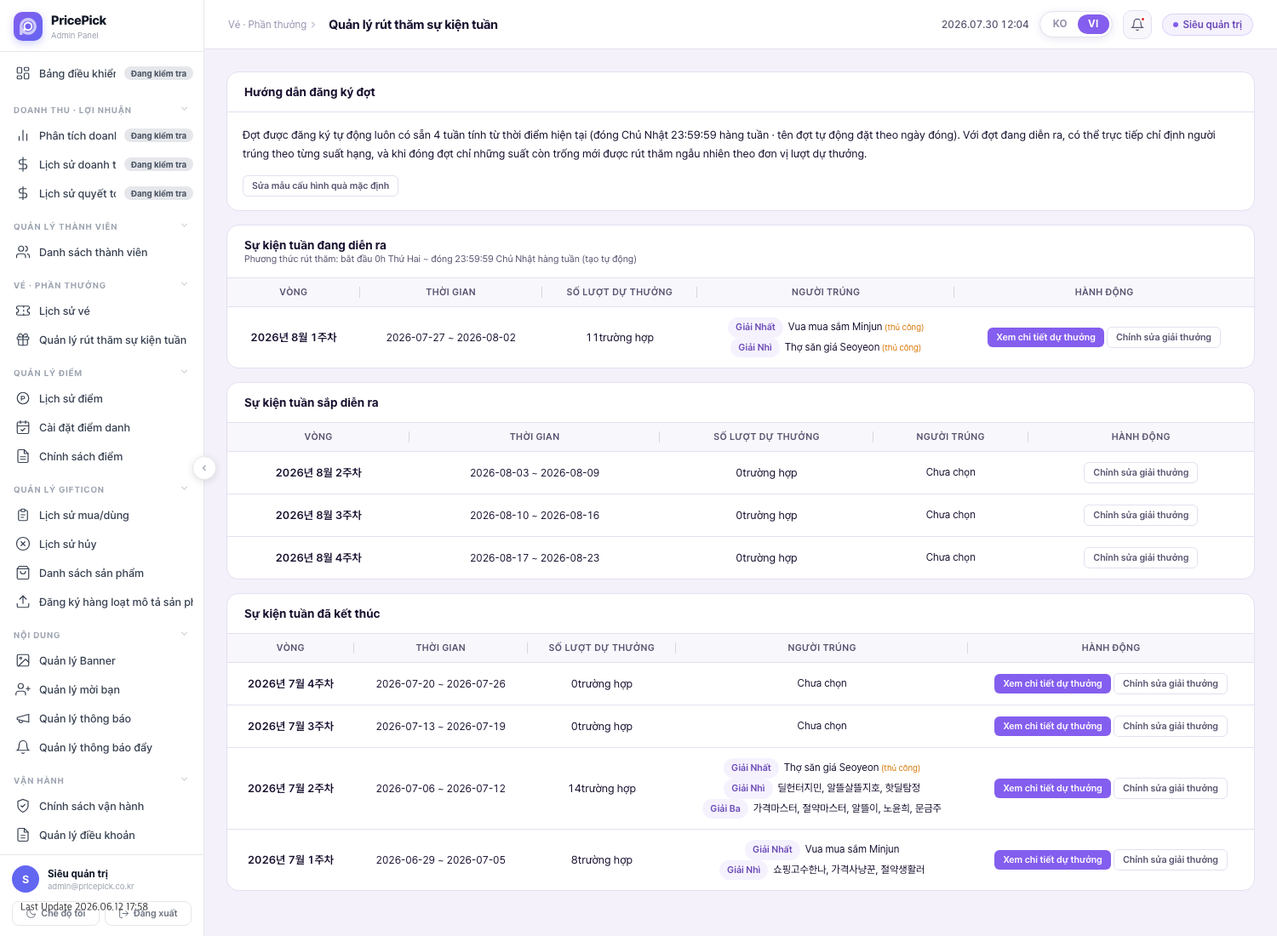
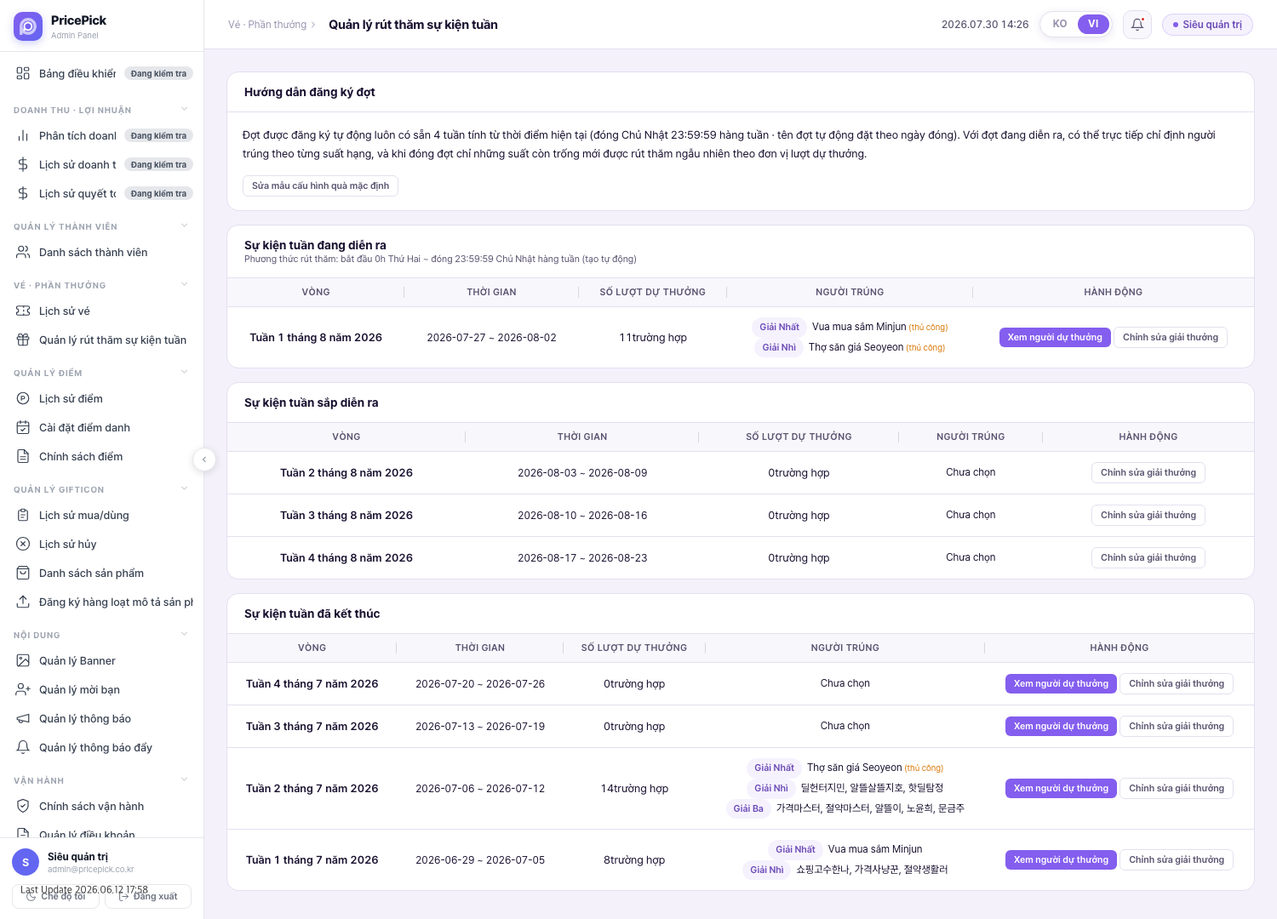
CMS 원본·설명서: 진행 중 회차 컬럼 폭 재배분 + "응모자 보기" 개칭 반영
- cms.html: 데모와 동일 이식. 진행 중 회차 전용 폭 36/24/40%(840px 모달 기준 290·193·322px,
  등수 칸 콘텐츠 306px → 잔여 16px)로 재배분하고, 종료 회차 폭은 정적 th width를 최초 1회 캐시해
  그대로 복원(그쪽 폭 조정은 병렬 세션 담당이라 값을 들고 있지 않음).
  정렬은 전역 td{text-align:center!important}에 맞서지 않고, 내용이 좌측부터 쌓이는 "당첨 등수"
  헤더만 좌측으로 내려 헤더·내용 기준을 일치시켰다.
  회차 리스트 버튼 "응모 상세 보기" → "응모자 보기", KO2VI "Xem người dự thưởng".
- 설명서: 본문·캡션의 버튼명 KO 7곳·VI 7곳 일괄 교체, 진행 중 캡처 캡션에 컬럼 폭 재배분 사실 추가.
  캡처 4종 재촬영 — 리스트 KO/VI(새 버튼명), 진행 중(새 폭·안내 펼침), 종료(2행 구조·지급 활성).

검증: 진행 중/종료 폭·정렬·10건 무스크롤 실화면 확인, 버튼 라벨 KO/VI 확인, 설명서 KO/VI 잔존 한글 0건.

diff --git a/cms-storyboard/weekly-draws.html b/cms-storyboard/weekly-draws.html
@@ -82,11 +82,11 @@ code{font-family:'SF Mono',Menlo,monospace;font-size:11.5px;background:var(--bg)
 <table>
   <tr><th style="width:170px"><span class="i18n"><span class="ko">구역</span><span class="vi">Khu vực</span></span></th><th><span class="i18n"><span class="ko">내용</span><span class="vi">Nội dung</span></span></th></tr>
   <tr><td><b><span class="i18n"><span class="ko">진행중인 주간 이벤트</span><span class="vi">Sự kiện tuần đang diễn ra</span></span></b></td><td><span class="i18n"><span class="ko">오늘이 속한 회차 1개. 항상 리스트 맨 위</span><span class="vi">1 đợt chứa ngày hôm nay. Luôn ở trên cùng danh sách</span></span></td></tr>
-  <tr><td><b><span class="i18n"><span class="ko">진행예정 주간 이벤트</span><span class="vi">Sự kiện tuần sắp diễn ra</span></span></b></td><td><span class="i18n"><span class="ko">아직 시작 전인 이후 회차들(보통 3개). 응모가 아직 0건이라 "응모 상세 보기" 버튼은 없고 "경품 수정"만 있다</span><span class="vi">Các đợt sau đó chưa bắt đầu (thường 3 đợt). Vì chưa có lượt dự thưởng nào nên không có nút "Xem chi tiết dự thưởng", chỉ có "Chỉnh sửa giải thưởng"</span></span></td></tr>
+  <tr><td><b><span class="i18n"><span class="ko">진행예정 주간 이벤트</span><span class="vi">Sự kiện tuần sắp diễn ra</span></span></b></td><td><span class="i18n"><span class="ko">아직 시작 전인 이후 회차들(보통 3개). 응모가 아직 0건이라 "응모자 보기" 버튼은 없고 "경품 수정"만 있다</span><span class="vi">Các đợt sau đó chưa bắt đầu (thường 3 đợt). Vì chưa có lượt dự thưởng nào nên không có nút "Xem người dự thưởng", chỉ có "Chỉnh sửa giải thưởng"</span></span></td></tr>
   <tr><td><b><span class="i18n"><span class="ko">종료된 주간 이벤트</span><span class="vi">Sự kiện tuần đã kết thúc</span></span></b></td><td><span class="i18n"><span class="ko">마감이 지난 회차. 최신 회차가 위로 오도록 정렬</span><span class="vi">Đợt đã qua hạn đóng. Sắp xếp đợt mới nhất lên trên</span></span></td></tr>
 </table>
 <p><span class="i18n"><span class="ko">각 회차 행의 "응모건 수"는 그 회차에 이벤트 티켓이 쓰인 횟수다(뒤에서 설명하듯 티켓 1장 = 응모 1건이므로, 같은 사람이 여러 장 쓰면 그만큼 건수도 늘어난다). "당첨자"는 당첨자가 확정된 회차에만 등수별로 뜨고, 아직이면 "미선정"으로 표시된다.</span><span class="vi">"Số lượt dự thưởng" ở mỗi dòng đợt là số lần vé sự kiện được dùng trong đợt đó (vé 1 = dự thưởng 1 lượt như giải thích ở phần sau, nên 1 người dùng nhiều vé thì số lượt cũng tăng theo). "Người trúng" chỉ hiện theo hạng ở đợt đã chốt người trúng, còn chưa thì hiện "Chưa chọn".</span></span></p>
-<div class="shot"><img src="img/weekly-draws-01-list-overview.png" alt="회차 리스트 전체 화면 — 3구역"><div class="cap"><span class="i18n"><span class="ko">실측 캡처 — 회차 자동 등록 안내 + 3구역 리스트(2026-07-30, cms.html 기준). 진행예정 구역은 "경품 수정"만 있고 "응모 상세 보기"가 없다. 진행중 회차 "당첨자" 칸의 <b>"(수동)"</b>은 운영자가 직접 지정한 당첨자다</span><span class="vi">Ảnh chụp thực tế — hướng dẫn đăng ký đợt tự động + danh sách 3 khu vực (2026-07-30, theo cms.html). Khu vực sắp diễn ra chỉ có "Chỉnh sửa giải thưởng", không có "Xem chi tiết dự thưởng". Ký hiệu <b>"(thủ công)"</b> ở cột "Người trúng" của đợt đang diễn ra là người trúng do Vận hành viên trực tiếp chỉ định</span></span></div></div>
+<div class="shot"><img src="img/weekly-draws-01-list-overview.png" alt="회차 리스트 전체 화면 — 3구역"><div class="cap"><span class="i18n"><span class="ko">실측 캡처 — 회차 자동 등록 안내 + 3구역 리스트(2026-07-30, cms.html 기준). 진행예정 구역은 "경품 수정"만 있고 "응모자 보기"가 없다. 진행중 회차 "당첨자" 칸의 <b>"(수동)"</b>은 운영자가 직접 지정한 당첨자다</span><span class="vi">Ảnh chụp thực tế — hướng dẫn đăng ký đợt tự động + danh sách 3 khu vực (2026-07-30, theo cms.html). Khu vực sắp diễn ra chỉ có "Chỉnh sửa giải thưởng", không có "Xem người dự thưởng". Ký hiệu <b>"(thủ công)"</b> ở cột "Người trúng" của đợt đang diễn ra là người trúng do Vận hành viên trực tiếp chỉ định</span></span></div></div>
 
 <h2 class="sec"><span class="i18n"><span class="ko">4. 경품 구성</span><span class="vi">4. Cấu hình quà</span></span></h2>
 <p><span class="i18n"><span class="ko">회차별 "경품 수정" 버튼을 누르면 그 회차의 등수별 경품만 고칠 수 있다. 회차명·기간은 자동 등록 규칙으로 고정돼 있어 이 모달에서 바꿀 수 없다 — 등수, 경품명, 당첨자 수(=그 등수에 몇 명 뽑을지)만 입력한다. 새로 자동 생성되는 회차는 "기본 경품 구성 템플릿"을 그대로 복사해서 만들어지며, 이 템플릿은 화면 상단 "기본 경품 구성 템플릿 편집" 버튼에서 미리 정해둔다. 템플릿을 바꿔도 이미 만들어진 회차에는 영향이 없고, 그 이후 새로 생기는 회차부터 적용된다.</span><span class="vi">Bấm nút "Chỉnh sửa giải thưởng" ở từng đợt để chỉ sửa quà theo hạng của đợt đó. Tên đợt·thời gian đã cố định theo quy tắc đăng ký tự động nên không sửa được trong modal này — chỉ nhập hạng, tên quà, số người trúng (=chọn bao nhiêu người ở hạng đó). Đợt mới được tạo tự động sẽ sao chép nguyên "Mẫu cấu hình quà mặc định", mẫu này được đặt trước ở nút "Sửa mẫu cấu hình quà mặc định" phía trên màn hình. Đổi mẫu không ảnh hưởng đợt đã tạo, chỉ áp dụng cho đợt tạo sau đó.</span></span></p>
@@ -96,14 +96,14 @@ code{font-family:'SF Mono',Menlo,monospace;font-size:11.5px;background:var(--bg)
 </div>
 
 <h2 class="sec"><span class="i18n"><span class="ko">5. 응모자 리스트 · 당첨자 선정</span><span class="vi">5. Danh sách người dự thưởng · Chọn người trúng</span></span></h2>
-<p><span class="i18n"><span class="ko">회차 행의 "응모 상세 보기"를 누르면 그 회차에 응모한 사람들이 뜬다. 이 버튼은 <b>진행중·종료된 회차 행에만 있다</b> — 진행예정 회차는 아직 응모가 0건이라 볼 게 없어서 버튼 자체를 빼놨다. 표기는 닉네임과 카카오 아이디 두 줄뿐이다(내부 식별 아이디 같은 건 안 보여준다). 응모일시는 날짜와 시각까지 함께 나온다. 컬럼은 <b>닉네임(카카오ID) · 응모일시 · 당첨 등수</b> 3개다 — 당첨 등수 칸 하나에 등수 뱃지(진행 중 회차는 등수 지정 드롭다운)와 <b>그 등수에 걸린 경품명</b>, 지급 상태 뱃지, 메모칸이 한 줄로 들어간다. 경품명은 그 회차의 등수별 경품 구성에서 그대로 읽어오므로 <b>"경품 수정"에서 경품을 바꾸면 이 표기도 따라 바뀐다</b>. 리스트 위 툴바도 한 줄이다 — 검색창, 응모 건수, 상태 뱃지, 안내 (i) 버튼이 왼쪽에 붙고 취소·저장이 오른쪽에 붙는다. 긴 안내 문구는 (i)를 누르면 그 아래로 펼쳐진다(마우스만 올려도 전문이 뜬다).</span><span class="vi">Bấm "Xem chi tiết dự thưởng" ở dòng đợt để xem người đã dự thưởng đợt đó. Nút này <b>chỉ có ở dòng đợt đang diễn ra·đã kết thúc</b> — đợt sắp diễn ra chưa có lượt dự thưởng nào nên đã bỏ hẳn nút này. Chỉ hiển thị 2 dòng biệt danh và Kakao ID (không hiện ID định danh nội bộ). Thời điểm dự thưởng hiện cả ngày lẫn giờ. Bảng có 3 cột: <b>Biệt danh (Kakao ID) · Thời điểm dự thưởng · Hạng trúng thưởng</b> — riêng ô Hạng trúng thưởng chứa gọn trên một dòng: badge hạng (đợt đang diễn ra thì là dropdown chỉ định hạng), <b>tên quà gắn với hạng đó</b>, badge trạng thái gửi quà và ô ghi chú. Tên quà được đọc thẳng từ cấu hình quà theo hạng của đợt đó, nên <b>đổi quà ở "Chỉnh sửa giải thưởng" thì phần hiển thị này cũng đổi theo</b>. Thanh công cụ phía trên danh sách cũng gói trong một dòng — ô tìm kiếm, số lượt dự thưởng, badge trạng thái và nút hướng dẫn (i) nằm bên trái, Hủy·Lưu nằm bên phải. Nội dung hướng dẫn dài sẽ bung ra bên dưới khi bấm (i) (chỉ rê chuột cũng hiện đầy đủ).</span></span></p>
+<p><span class="i18n"><span class="ko">회차 행의 "응모자 보기"를 누르면 그 회차에 응모한 사람들이 뜬다. 이 버튼은 <b>진행중·종료된 회차 행에만 있다</b> — 진행예정 회차는 아직 응모가 0건이라 볼 게 없어서 버튼 자체를 빼놨다. 표기는 닉네임과 카카오 아이디 두 줄뿐이다(내부 식별 아이디 같은 건 안 보여준다). 응모일시는 날짜와 시각까지 함께 나온다. 컬럼은 <b>닉네임(카카오ID) · 응모일시 · 당첨 등수</b> 3개다 — 당첨 등수 칸 하나에 등수 뱃지(진행 중 회차는 등수 지정 드롭다운)와 <b>그 등수에 걸린 경품명</b>, 지급 상태 뱃지, 메모칸이 한 줄로 들어간다. 경품명은 그 회차의 등수별 경품 구성에서 그대로 읽어오므로 <b>"경품 수정"에서 경품을 바꾸면 이 표기도 따라 바뀐다</b>. 리스트 위 툴바도 한 줄이다 — 검색창, 응모 건수, 상태 뱃지, 안내 (i) 버튼이 왼쪽에 붙고 취소·저장이 오른쪽에 붙는다. 긴 안내 문구는 (i)를 누르면 그 아래로 펼쳐진다(마우스만 올려도 전문이 뜬다).</span><span class="vi">Bấm "Xem người dự thưởng" ở dòng đợt để xem người đã dự thưởng đợt đó. Nút này <b>chỉ có ở dòng đợt đang diễn ra·đã kết thúc</b> — đợt sắp diễn ra chưa có lượt dự thưởng nào nên đã bỏ hẳn nút này. Chỉ hiển thị 2 dòng biệt danh và Kakao ID (không hiện ID định danh nội bộ). Thời điểm dự thưởng hiện cả ngày lẫn giờ. Bảng có 3 cột: <b>Biệt danh (Kakao ID) · Thời điểm dự thưởng · Hạng trúng thưởng</b> — riêng ô Hạng trúng thưởng chứa gọn trên một dòng: badge hạng (đợt đang diễn ra thì là dropdown chỉ định hạng), <b>tên quà gắn với hạng đó</b>, badge trạng thái gửi quà và ô ghi chú. Tên quà được đọc thẳng từ cấu hình quà theo hạng của đợt đó, nên <b>đổi quà ở "Chỉnh sửa giải thưởng" thì phần hiển thị này cũng đổi theo</b>. Thanh công cụ phía trên danh sách cũng gói trong một dòng — ô tìm kiếm, số lượt dự thưởng, badge trạng thái và nút hướng dẫn (i) nằm bên trái, Hủy·Lưu nằm bên phải. Nội dung hướng dẫn dài sẽ bung ra bên dưới khi bấm (i) (chỉ rê chuột cũng hiện đầy đủ).</span></span></p>
 <p><span class="i18n"><span class="ko">이벤트 티켓 <b>1장을 쓴 게 응모 1건이고, 리스트도 1행</b>이다. 그래서 한 사람이 티켓을 3장 썼으면 그 사람 이름으로 3행이 나란히 뜬다 — 한 사람이 여러 번 응모할 수 있다는 뜻이다. 당첨자 추첨도 이 응모 "행" 단위로 진행되기 때문에, 같은 사람이라도 <b>쓴 티켓이 많을수록(=응모 행이 많을수록) 당첨 확률이 그만큼 비례해서 올라간다</b>.</span><span class="vi">Dùng <b>1 vé sự kiện = 1 lượt dự thưởng = 1 dòng</b> trong danh sách. Vậy nếu 1 người dùng 3 vé thì tên người đó xuất hiện liền 3 dòng — nghĩa là 1 người có thể dự thưởng nhiều lần. Rút thăm người trúng cũng tiến hành theo đơn vị "dòng" dự thưởng này, nên dù cùng 1 người, <b>dùng càng nhiều vé (=càng nhiều dòng dự thưởng) thì xác suất trúng càng tăng theo tỷ lệ</b>.</span></span></p>
 <div class="callout"><div class="tt"><span class="i18n"><span class="ko">당첨자 선정 규칙</span><span class="vi">Quy tắc chọn người trúng</span></span></div><span class="i18n"><span class="ko">진행 중인 회차에서는 운영자가 등수 슬롯별로 당첨자를 직접 지정할 수 있고(마감 전까지 변경·해제 가능), 마감(일요일 23:59:59) 시점에 비어 있는 슬롯만 응모 건 단위 무작위 추첨으로 채워진다 · 1인 1회 당첨 · 1등부터 등수별 정원만큼 순서대로 채움 · 이미 수동 지정된 사람은 자동 추첨 대상에서 제외. 요약 문구는 응모자 리스트 모달 상단에도 회차 상태에 맞게 붙어 있다.</span><span class="vi">Với đợt đang diễn ra, Vận hành viên có thể trực tiếp chỉ định người trúng theo từng suất hạng (thay đổi·huỷ được cho đến khi đóng đợt), và tại thời điểm đóng đợt (23:59:59 Chủ Nhật) chỉ những suất còn trống mới được rút thăm ngẫu nhiên theo đơn vị lượt dự thưởng · Mỗi người chỉ trúng thưởng 1 lần · Lấp đầy theo thứ tự từ hạng 1 cho đến khi đủ số lượng từng hạng · Người đã được chỉ định thủ công bị loại khỏi diện rút thăm tự động. Nội dung tóm tắt này cũng hiện ở đầu modal danh sách người dự thưởng theo đúng trạng thái của đợt.</span></span></div>
 <p><span class="i18n"><span class="ko"><b>진행 중인 회차</b>를 열면 각 응모 행의 "당첨 등수" 칸이 <b>드롭다운</b>으로 나온다. 그 회차 경품 구성에 있는 등수만 선택지로 뜨고("미선택" 포함), 등수를 고르면 그 행이 그 등수 슬롯의 당첨자가 된다. 두 가지는 화면에서 바로 막는다 — <b>등수별 정원을 넘겨 지정할 수 없고</b>("해당 등수의 슬롯이 이미 모두 찼습니다."), <b>같은 사람을 두 번 지정할 수 없다</b>("이미 다른 응모 건으로 당첨 처리된 응모자입니다"). 지정은 <b>상단 "저장"을 눌러야 확정</b>되며, 저장 전에는 상태 뱃지가 "저장 전 (임시 지정)"으로 뜬다. 저장 후에도 마감 전이면 언제든 다른 행으로 바꾸거나 "미선택"으로 되돌려 해제할 수 있다.</span><span class="vi">Khi mở <b>đợt đang diễn ra</b>, cột "Hạng trúng thưởng" của mỗi dòng dự thưởng hiện dưới dạng <b>danh sách chọn (dropdown)</b>. Chỉ các hạng có trong cấu hình quà của đợt đó xuất hiện làm lựa chọn (kèm "Chưa chọn"), chọn một hạng thì dòng đó thành người trúng của suất hạng ấy. Hai điều bị chặn ngay trên màn hình — <b>không chỉ định vượt số lượng của từng hạng</b> ("Các suất của hạng này đã đầy.") và <b>không chỉ định cùng một người hai lần</b> ("Người này đã được chọn trúng thưởng ở một lượt dự thưởng khác"). Chỉ định <b>chỉ được chốt khi bấm "Lưu"</b> phía trên; trước khi lưu, badge trạng thái hiện "Trước khi lưu (chỉ định tạm)". Sau khi lưu, nếu vẫn chưa đóng đợt thì lúc nào cũng có thể đổi sang dòng khác hoặc đưa về "Chưa chọn" để huỷ chỉ định.</span></span></p>
 <p><span class="i18n"><span class="ko">마감 시각이 되면 시스템이 <b>비어 있는 슬롯만</b> 채운다. 수동 지정된 사람을 뺀 나머지 응모 행을 전부 무작위로 섞은 뒤, 등수별로 남은 자리만큼 1등부터 순서대로 채우고, <b>같은 사람이 두 번 당첨되는 일은 막는다</b>(이미 당첨된 사람의 다른 응모 행은 건너뜀). 이렇게 확정된 뒤에는 <b>운영자가 당첨자를 바꿀 수 없다</b> — 종료된 회차의 "당첨 등수" 칸은 드롭다운이 아니라 결과 뱃지로만 보인다. 데모 환경에는 서버 크론이 없어서, 실제로는 CMS 화면을 여는 시점에 "마감은 지났는데 아직 추첨 안 된 회차"가 있는지 확인해 그 자리에서 대신 처리한다(운영자 눈에는 차이가 없다).</span><span class="vi">Khi đến giờ đóng đợt, hệ thống chỉ lấp <b>những suất còn trống</b>. Hệ thống xáo trộn ngẫu nhiên toàn bộ dòng dự thưởng còn lại sau khi trừ người đã được chỉ định thủ công, rồi lấp đúng số chỗ còn thiếu của từng hạng theo thứ tự từ hạng 1, đồng thời <b>chặn việc 1 người trúng hai lần</b> (bỏ qua các dòng dự thưởng khác của người đã trúng). Sau khi đã chốt như vậy thì <b>Vận hành viên không thể đổi người trúng</b> — cột "Hạng trúng thưởng" của đợt đã kết thúc chỉ hiện badge kết quả, không phải dropdown. Vì môi trường demo không có cron server, trên thực tế hệ thống kiểm tra vào lúc mở màn CMS xem có đợt nào "đã đóng nhưng chưa rút thăm" không rồi xử lý thay ngay lúc đó (Vận hành viên nhìn thấy không khác gì nhau).</span></span></p>
 <p><span class="i18n"><span class="ko">당첨으로 뽑힌 응모 행에는 <b>"당첨 · N등" 뱃지</b>가 붙고, 이런 행들은 등수 순서로 리스트 맨 위에 모인다. 회차 리스트의 "당첨자" 칸에서는 운영자가 직접 지정한 당첨자 뒤에 <b>"(수동)" 표시</b>가 붙어 자동 추첨분과 구분된다.</span><span class="vi">Dòng dự thưởng được chọn trúng sẽ có <b>badge "Trúng thưởng · Hạng N"</b>, và các dòng này được gom lên đầu danh sách theo thứ tự hạng. Ở cột "Người trúng" của danh sách đợt, người trúng do Vận hành viên trực tiếp chỉ định sẽ có thêm <b>ký hiệu "(thủ công)"</b> để phân biệt với phần rút thăm tự động.</span></span></p>
 <p><span class="i18n"><span class="ko">응모자가 많은 회차를 대비해 리스트 위에 <b>닉네임 검색창</b>이 있고, 리스트는 <b>10건씩 페이지로 나뉜다</b>. 검색은 닉네임과 카카오 아이디를 둘 다 부분 일치로 잡는다(대소문자 구분 없음) — "지민"만 쳐도 "딜헌터지민"이 걸린다. 검색창 오른쪽에는 <b>전체 응모 건수</b>가 항상 떠 있고, 검색 중에는 "검색 결과 N / 전체 응모 건수 M" 형태로 둘 다 보여준다(총계는 티켓 1장 = 1행 기준 그대로다). 정렬 규칙은 검색·페이지와 무관하게 그대로다 — <b>당첨자를 등수 순으로 먼저 세우고 그 뒤에 나머지</b>를 붙인 순서를 정해놓고 그 순서 그대로 10건씩 끊기 때문에, 1페이지 맨 위는 항상 1등이다. 당첨 뱃지·지급 상태 뱃지·메모칸도 검색 결과 안에서 똑같이 눌리고 입력된다. 검색어를 바꾸면 1페이지로 돌아가고, 모달을 닫았다 다시 열면 검색어·페이지가 초기화된다. 10건 이하면 페이지 버튼은 아예 안 나온다.</span><span class="vi">Để chuẩn bị cho các đợt có nhiều người dự thưởng, phía trên danh sách có <b>ô tìm kiếm biệt danh</b>, và danh sách được <b>chia trang 10 dòng mỗi trang</b>. Tìm kiếm khớp một phần cả biệt danh lẫn Kakao ID (không phân biệt hoa thường) — chỉ gõ "지민" cũng ra "딜헌터지민". Bên phải ô tìm kiếm luôn hiện <b>tổng số lượt dự thưởng</b>, khi đang tìm kiếm thì hiện cả hai theo dạng "Kết quả tìm kiếm N / Tổng số lượt dự thưởng M" (tổng số vẫn tính theo chuẩn 1 vé = 1 dòng như cũ). Quy tắc sắp xếp không đổi dù có tìm kiếm hay chia trang — <b>xếp người trúng lên trước theo thứ tự hạng rồi mới nối phần còn lại</b>, sau đó mới cắt 10 dòng mỗi trang theo đúng thứ tự đó, nên đầu trang 1 luôn là hạng 1. Badge trúng thưởng·badge trạng thái gửi quà·ô ghi chú trong kết quả tìm kiếm cũng bấm và nhập được y hệt. Đổi từ khóa thì quay về trang 1, đóng modal rồi mở lại thì từ khóa·trang được đặt lại. Nếu từ 10 dòng trở xuống thì nút chuyển trang không hiện.</span></span></p>
-<div class="shot"><img src="img/weekly-draws-02-entrants-modal.png" alt="응모자 리스트 — 미선정 상태, 다중 응모"><div class="cap"><span class="i18n"><span class="ko">실측 캡처 — <b>진행 중 회차</b>의 응모자 리스트. "당첨 등수"가 드롭다운이고, 1등·2등 슬롯이 수동 지정·저장된 상태(뱃지 "수동 지정 저장됨"). <b>지급 상태 뱃지·메모칸은 아예 없다</b>(지급은 마감 후) — 그 이유는 툴바 ⓘ 버튼을 누르면 펼쳐지는 안내 둘째 줄에 있다</span><span class="vi">Ảnh chụp thực tế — danh sách người dự thưởng của <b>đợt đang diễn ra</b>. Cột "Hạng trúng thưởng" là dropdown, và suất hạng 1·hạng 2 đang ở trạng thái đã chỉ định thủ công·đã lưu (badge "Đã lưu chỉ định thủ công"). <b>Không có badge trạng thái gửi quà·ô ghi chú</b> (gửi quà là sau khi đóng đợt) — lý do nằm ở dòng thứ hai của phần hướng dẫn mở ra khi bấm nút ⓘ trên thanh công cụ</span></span></div></div>
+<div class="shot"><img src="img/weekly-draws-02-entrants-modal.png" alt="응모자 리스트 — 미선정 상태, 다중 응모"><div class="cap"><span class="i18n"><span class="ko">실측 캡처 — <b>진행 중 회차</b>의 응모자 리스트. "당첨 등수"가 드롭다운이고, 1등·2등 슬롯이 수동 지정·저장된 상태(뱃지 "수동 지정 저장됨"). <b>지급 상태 뱃지·메모칸은 아예 없다</b>(지급은 마감 후) — 그 이유는 툴바 ⓘ 버튼을 누르면 펼쳐지는 안내 둘째 줄에 있다. 지급·메모가 빠진 만큼 <b>컬럼 폭도 진행 중 전용으로 다시 나눠</b> 드롭다운·경품명 오른쪽에 빈 공간이 남지 않게 했다</span><span class="vi">Ảnh chụp thực tế — danh sách người dự thưởng của <b>đợt đang diễn ra</b>. Cột "Hạng trúng thưởng" là dropdown, và suất hạng 1·hạng 2 đang ở trạng thái đã chỉ định thủ công·đã lưu (badge "Đã lưu chỉ định thủ công"). <b>Không có badge trạng thái gửi quà·ô ghi chú</b> (gửi quà là sau khi đóng đợt) — lý do nằm ở dòng thứ hai của phần hướng dẫn mở ra khi bấm nút ⓘ trên thanh công cụ. Vì bỏ phần gửi quà·ghi chú nên <b>độ rộng cột cũng được chia lại riêng cho đợt đang diễn ra</b>, không để trống bên phải dropdown·tên quà</span></span></div></div>
 
 <h2 class="sec"><span class="i18n"><span class="ko">6. 지급 관리</span><span class="vi">6. Quản lý gửi quà</span></span></h2>
 <p><span class="i18n"><span class="ko">당첨자가 확정된 응모 행에는 종료된 회차의 <b>당첨 등수 칸은 2행</b>이다. <b>윗줄</b>에 당첨 뱃지("당첨 · N등")와 그 등수에 걸린 경품명이 오고, <b>아랫줄</b>에 자유 메모 칸이 남는 폭을 차지하고 그 오른쪽에 <b>지급 상태 뱃지</b>가 붙는다. 지급 상태는 기본이 "지급 대기"이고 뱃지를 클릭할 때마다 "지급 완료" ↔ "지급 대기"로 바뀐다. 메모는 기프티콘 발송일이나 실물 경품 송장번호 같은 걸 적는 칸이고, 칸보다 긴 메모는 마우스를 올리면 전체가 뜬다. 2행으로 나눈 대신 셀 여백·메모 입력 높이를 조여서 <b>한 페이지 10건은 여전히 모달 내부 스크롤 없이 다 보인다</b>. 지급 상태와 메모는 <b>상단 "저장" 버튼을 눌러야 저장</b>된다 — 뱃지 클릭·메모 입력만으로는 임시 상태이고, 모달을 닫았다 다시 열면 마지막으로 저장된 상태로 돌아간다.</span><span class="vi">Dòng dự thưởng đã chốt người trúng sẽ có <b>ô Hạng trúng thưởng của đợt đã kết thúc gồm 2 dòng</b>. <b>Dòng trên</b> là badge trúng thưởng ("Trúng thưởng · Hạng N") và tên quà gắn với hạng đó; <b>dòng dưới</b> là ô ghi chú chiếm phần bề rộng còn lại, và bên phải nó là <b>badge trạng thái gửi quà</b>. Trạng thái gửi quà mặc định là "Chờ gửi quà", mỗi lần bấm vào badge sẽ đổi qua lại "Đã gửi quà" ↔ "Chờ gửi quà". Ô ghi chú dùng để ghi ngày gửi Gifticon hoặc mã vận đơn quà vật lý; ghi chú dài hơn ô thì rê chuột vào sẽ hiện đầy đủ. Bù lại việc chia 2 dòng, khoảng đệm ô và chiều cao ô ghi chú đã được thu gọn nên <b>10 dòng của một trang vẫn hiện hết mà không phải cuộn bên trong modal</b>. Trạng thái gửi quà và ghi chú <b>chỉ lưu khi bấm nút "Lưu"</b> phía trên — chỉ bấm badge/nhập ghi chú thôi vẫn là trạng thái tạm, đóng modal rồi mở lại sẽ trở về trạng thái đã lưu gần nhất.</span></span></p>
@@ -125,16 +125,16 @@ code{font-family:'SF Mono',Menlo,monospace;font-size:11.5px;background:var(--bg)
 <h2 class="sec"><span class="i18n"><span class="ko">8. 운영 시나리오</span><span class="vi">8. Kịch bản vận hành</span></span></h2>
 <table>
   <tr><th style="width:190px"><span class="i18n"><span class="ko">상황</span><span class="vi">Tình huống</span></span></th><th><span class="i18n"><span class="ko">운영자가 하는 일</span><span class="vi">Việc Vận hành viên làm</span></span></th><th><span class="i18n"><span class="ko">결과</span><span class="vi">Kết quả</span></span></th></tr>
-  <tr><td><b><span class="i18n"><span class="ko">특정 회원을 당첨자로 지정</span><span class="vi">Chỉ định một thành viên làm người trúng</span></span></b></td><td><span class="i18n"><span class="ko">진행 중인 회차의 "응모 상세 보기"를 열어 그 회원의 응모 행에서 "당첨 등수" 드롭다운으로 등수를 고르고 "저장"</span><span class="vi">Mở "Xem chi tiết dự thưởng" của đợt đang diễn ra, chọn hạng ở dropdown "Hạng trúng thưởng" tại dòng dự thưởng của thành viên đó rồi bấm "Lưu"</span></span></td><td><span class="i18n"><span class="ko">그 슬롯은 확정되고 남은 슬롯만 마감 시 무작위 추첨으로 채워진다. 마감 전까지 변경·해제 가능하며, 앱에는 마감 전까지 아무것도 노출되지 않음. 이 단계에서는 지급 상태·메모가 화면에 없음(마감 후 등장)</span><span class="vi">Suất đó được chốt và chỉ các suất còn lại được rút thăm ngẫu nhiên khi đóng đợt. Có thể thay đổi·huỷ cho đến khi đóng đợt, và app không hiện gì cho đến khi đóng đợt. Ở bước này trạng thái gửi quà·ghi chú không có trên màn hình (xuất hiện sau khi đóng đợt)</span></span></td></tr>
-  <tr><td><b><span class="i18n"><span class="ko">이번 주 당첨자 확인</span><span class="vi">Xem người trúng tuần này</span></span></b></td><td><span class="i18n"><span class="ko">마감된 회차의 "응모 상세 보기"를 열어 확정된 결과를 확인만 한다 — 종료 회차에서는 당첨자를 바꿀 수 없다</span><span class="vi">Chỉ mở "Xem chi tiết dự thưởng" của đợt đã đóng để xem kết quả đã chốt — với đợt đã kết thúc thì không đổi được người trúng</span></span></td><td><span class="i18n"><span class="ko">당첨자가 등수 순으로 리스트 맨 위에 표시되고, 회차 리스트의 "당첨자" 칸에도 등수별로 표시됨(수동 지정분에는 "(수동)" 표시)</span><span class="vi">Người trúng hiện ở đầu danh sách theo thứ tự hạng, và cột "Người trúng" ở danh sách đợt cũng hiện theo hạng (phần chỉ định thủ công có ký hiệu "(thủ công)")</span></span></td></tr>
-  <tr><td><b><span class="i18n"><span class="ko">특정 회원이 응모했는지 확인</span><span class="vi">Kiểm tra một thành viên có dự thưởng không</span></span></b></td><td><span class="i18n"><span class="ko">"응모 상세 보기"를 연 뒤 리스트 위 검색창에 닉네임이나 카카오 아이디 일부를 입력한다 (문의 답변용으로 쓰는 경우가 많다)</span><span class="vi">Mở "Xem chi tiết dự thưởng" rồi nhập một phần biệt danh hoặc Kakao ID vào ô tìm kiếm phía trên danh sách (thường dùng để trả lời hỏi đáp)</span></span></td><td><span class="i18n"><span class="ko">그 회원의 응모 행만 남는다 — 몇 건 응모했는지(=티켓을 몇 장 썼는지), 당첨됐는지까지 한 번에 보인다</span><span class="vi">Chỉ còn lại các dòng dự thưởng của thành viên đó — thấy ngay đã dự thưởng bao nhiêu lượt (=dùng bao nhiêu vé) và có trúng thưởng hay không</span></span></td></tr>
+  <tr><td><b><span class="i18n"><span class="ko">특정 회원을 당첨자로 지정</span><span class="vi">Chỉ định một thành viên làm người trúng</span></span></b></td><td><span class="i18n"><span class="ko">진행 중인 회차의 "응모자 보기"를 열어 그 회원의 응모 행에서 "당첨 등수" 드롭다운으로 등수를 고르고 "저장"</span><span class="vi">Mở "Xem người dự thưởng" của đợt đang diễn ra, chọn hạng ở dropdown "Hạng trúng thưởng" tại dòng dự thưởng của thành viên đó rồi bấm "Lưu"</span></span></td><td><span class="i18n"><span class="ko">그 슬롯은 확정되고 남은 슬롯만 마감 시 무작위 추첨으로 채워진다. 마감 전까지 변경·해제 가능하며, 앱에는 마감 전까지 아무것도 노출되지 않음. 이 단계에서는 지급 상태·메모가 화면에 없음(마감 후 등장)</span><span class="vi">Suất đó được chốt và chỉ các suất còn lại được rút thăm ngẫu nhiên khi đóng đợt. Có thể thay đổi·huỷ cho đến khi đóng đợt, và app không hiện gì cho đến khi đóng đợt. Ở bước này trạng thái gửi quà·ghi chú không có trên màn hình (xuất hiện sau khi đóng đợt)</span></span></td></tr>
+  <tr><td><b><span class="i18n"><span class="ko">이번 주 당첨자 확인</span><span class="vi">Xem người trúng tuần này</span></span></b></td><td><span class="i18n"><span class="ko">마감된 회차의 "응모자 보기"를 열어 확정된 결과를 확인만 한다 — 종료 회차에서는 당첨자를 바꿀 수 없다</span><span class="vi">Chỉ mở "Xem người dự thưởng" của đợt đã đóng để xem kết quả đã chốt — với đợt đã kết thúc thì không đổi được người trúng</span></span></td><td><span class="i18n"><span class="ko">당첨자가 등수 순으로 리스트 맨 위에 표시되고, 회차 리스트의 "당첨자" 칸에도 등수별로 표시됨(수동 지정분에는 "(수동)" 표시)</span><span class="vi">Người trúng hiện ở đầu danh sách theo thứ tự hạng, và cột "Người trúng" ở danh sách đợt cũng hiện theo hạng (phần chỉ định thủ công có ký hiệu "(thủ công)")</span></span></td></tr>
+  <tr><td><b><span class="i18n"><span class="ko">특정 회원이 응모했는지 확인</span><span class="vi">Kiểm tra một thành viên có dự thưởng không</span></span></b></td><td><span class="i18n"><span class="ko">"응모자 보기"를 연 뒤 리스트 위 검색창에 닉네임이나 카카오 아이디 일부를 입력한다 (문의 답변용으로 쓰는 경우가 많다)</span><span class="vi">Mở "Xem người dự thưởng" rồi nhập một phần biệt danh hoặc Kakao ID vào ô tìm kiếm phía trên danh sách (thường dùng để trả lời hỏi đáp)</span></span></td><td><span class="i18n"><span class="ko">그 회원의 응모 행만 남는다 — 몇 건 응모했는지(=티켓을 몇 장 썼는지), 당첨됐는지까지 한 번에 보인다</span><span class="vi">Chỉ còn lại các dòng dự thưởng của thành viên đó — thấy ngay đã dự thưởng bao nhiêu lượt (=dùng bao nhiêu vé) và có trúng thưởng hay không</span></span></td></tr>
   <tr><td><b><span class="i18n"><span class="ko">경품 발송 완료 표시</span><span class="vi">Đánh dấu đã gửi quà</span></span></b></td><td><span class="i18n"><span class="ko">해당 당첨자의 지급 상태 뱃지를 눌러 "지급 완료"로, 메모칸에 발송일 등 입력 → "저장"</span><span class="vi">Bấm badge trạng thái gửi quà của người trúng đó sang "Đã gửi quà", nhập ngày gửi v.v. vào ô ghi chú → "Lưu"</span></span></td><td><span class="i18n"><span class="ko">다음에 리스트를 열어도 지급 완료 상태와 메모가 그대로 남아 있음</span><span class="vi">Lần sau mở lại danh sách vẫn giữ nguyên trạng thái đã gửi và ghi chú</span></span></td></tr>
   <tr><td><b><span class="i18n"><span class="ko">이번 달 경품을 바꾸고 싶을 때</span><span class="vi">Khi muốn đổi quà tháng này</span></span></b></td><td><span class="i18n"><span class="ko">"기본 경품 구성 템플릿 편집"에서 템플릿을 바꾸거나, 이미 생성된 특정 회차만 "경품 수정"으로 개별 변경</span><span class="vi">Đổi mẫu ở "Sửa mẫu cấu hình quà mặc định", hoặc chỉ đổi riêng 1 đợt đã tạo qua "Chỉnh sửa giải thưởng"</span></span></td><td><span class="i18n"><span class="ko">템플릿 변경은 이후 새로 생기는 회차부터, 개별 수정은 그 회차에만 적용</span><span class="vi">Đổi mẫu áp dụng từ đợt tạo sau đó, sửa riêng chỉ áp dụng cho đợt đó</span></span></td></tr>
 </table>
 
 <h2 class="sec"><span class="i18n"><span class="ko">9. 주의사항</span><span class="vi">9. Lưu ý</span></span></h2>
 <div class="callout warn"><div class="tt"><span class="i18n"><span class="ko">회차를 수동으로 만들거나 지울 수 없다</span><span class="vi">Không thể tự tạo hoặc xóa đợt thủ công</span></span></div><span class="i18n"><span class="ko">주간 이벤트 특성상 회차가 중간에 비면 안 되기 때문에, 회차 등록·삭제 기능은 아예 없다. 회차는 화면 접속 시 자동으로만 채워진다. 경품 구성만 "경품 수정"으로 고칠 수 있다.</span><span class="vi">Vì đặc thù sự kiện tuần không được để trống đợt giữa chừng, nên hoàn toàn không có chức năng tạo·xóa đợt. Đợt chỉ được lấp đầy tự động khi truy cập màn hình. Chỉ có thể sửa cấu hình quà qua "Chỉnh sửa giải thưởng".</span></span></div>
-<div class="callout warn"><div class="tt"><span class="i18n"><span class="ko">당첨자 수동 지정은 진행 중인 회차에서만 된다</span><span class="vi">Chỉ định người trúng thủ công chỉ được với đợt đang diễn ra</span></span></div><span class="i18n"><span class="ko">진행예정 회차는 응모가 0건이라 "응모 상세 보기" 버튼 자체가 없고, 종료된 회차는 당첨자 구성이 이미 확정돼 드롭다운이 나오지 않는다. 즉 지정·변경·해제가 가능한 구간은 <b>회차 시작 후 마감 전까지</b>뿐이다. 마감 뒤에 잘못된 당첨자를 발견해도 CMS에서 바꿀 수 없고, 재추첨 버튼도 없다 — 마감 후 조작 가능한 부분은 지급 상태·메모뿐이다.</span><span class="vi">Đợt sắp diễn ra không có lượt dự thưởng nào nên không có cả nút "Xem chi tiết dự thưởng"; đợt đã kết thúc thì cơ cấu người trúng đã chốt nên không hiện dropdown. Tức là khoảng thời gian có thể chỉ định·thay đổi·huỷ chỉ là <b>từ khi đợt bắt đầu đến trước khi đóng đợt</b>. Nếu sau khi đóng đợt mới phát hiện người trúng sai thì không đổi được trên CMS, cũng không có nút rút thăm lại — sau khi đóng đợt chỉ thao tác được trạng thái gửi quà·ghi chú.</span></span></div>
+<div class="callout warn"><div class="tt"><span class="i18n"><span class="ko">당첨자 수동 지정은 진행 중인 회차에서만 된다</span><span class="vi">Chỉ định người trúng thủ công chỉ được với đợt đang diễn ra</span></span></div><span class="i18n"><span class="ko">진행예정 회차는 응모가 0건이라 "응모자 보기" 버튼 자체가 없고, 종료된 회차는 당첨자 구성이 이미 확정돼 드롭다운이 나오지 않는다. 즉 지정·변경·해제가 가능한 구간은 <b>회차 시작 후 마감 전까지</b>뿐이다. 마감 뒤에 잘못된 당첨자를 발견해도 CMS에서 바꿀 수 없고, 재추첨 버튼도 없다 — 마감 후 조작 가능한 부분은 지급 상태·메모뿐이다.</span><span class="vi">Đợt sắp diễn ra không có lượt dự thưởng nào nên không có cả nút "Xem người dự thưởng"; đợt đã kết thúc thì cơ cấu người trúng đã chốt nên không hiện dropdown. Tức là khoảng thời gian có thể chỉ định·thay đổi·huỷ chỉ là <b>từ khi đợt bắt đầu đến trước khi đóng đợt</b>. Nếu sau khi đóng đợt mới phát hiện người trúng sai thì không đổi được trên CMS, cũng không có nút rút thăm lại — sau khi đóng đợt chỉ thao tác được trạng thái gửi quà·ghi chú.</span></span></div>
 <div class="callout warn"><div class="tt"><span class="i18n"><span class="ko">수동 지정도 "저장"을 눌러야 반영된다</span><span class="vi">Chỉ định thủ công cũng phải bấm "Lưu" mới có hiệu lực</span></span></div><span class="i18n"><span class="ko">드롭다운에서 등수를 고른 것만으로는 임시 상태다(뱃지가 "저장 전 (임시 지정)"). 저장하지 않고 모달을 닫으면 지정이 사라지고, 그 슬롯은 비어 있는 것으로 취급돼 마감 시 무작위 추첨으로 채워진다.</span><span class="vi">Chỉ chọn hạng ở dropdown thôi vẫn là trạng thái tạm (badge hiện "Trước khi lưu (chỉ định tạm)"). Nếu đóng modal mà không lưu thì chỉ định biến mất, và suất đó bị coi là còn trống nên sẽ được lấp bằng rút thăm ngẫu nhiên khi đóng đợt.</span></span></div>
 <div class="callout warn"><div class="tt"><span class="i18n"><span class="ko">진행 중인 회차에는 지급 관련 표기가 없다</span><span class="vi">Ở đợt đang diễn ra không có phần liên quan đến gửi quà</span></span></div><span class="i18n"><span class="ko">지급 상태 뱃지·메모칸은 진행 중인 회차에서 <b>렌더 자체가 안 된다</b>(비활성이 아니라 아예 없음). 진행 중에는 경품을 지급하지 않으므로 의도된 동작이며, 툴바 ⓘ 버튼의 안내 둘째 줄로 이유를 알려준다. 지급 기록이 필요하면 회차가 마감된 뒤 종료 구역에서 같은 화면을 열면 된다 — 그때 같은 "당첨 등수" 칸에 지급 상태와 메모가 함께 나타난다.</span><span class="vi">Badge trạng thái gửi quà·ô ghi chú ở đợt đang diễn ra <b>không được render</b> (không phải bị vô hiệu mà là hoàn toàn không có). Trong lúc đợt đang diễn ra thì không gửi quà, nên đây là hành vi có chủ đích, và lý do được ghi ở dòng thứ hai trong phần hướng dẫn của nút ⓘ trên thanh công cụ. Nếu cần ghi lại việc gửi quà thì mở đúng màn đó ở khu vực đã kết thúc sau khi đợt đã đóng — lúc đó trạng thái gửi quà và ghi chú sẽ xuất hiện cùng trong cột "Hạng trúng thưởng".</span></span></div>
 <div class="callout warn"><div class="tt"><span class="i18n"><span class="ko">지급 상태·메모는 "저장"을 눌러야 저장된다</span><span class="vi">Trạng thái gửi quà·ghi chú chỉ lưu khi bấm "Lưu"</span></span></div><span class="i18n"><span class="ko">지급 상태 뱃지를 누르거나 메모를 입력한 것만으로는 저장되지 않는다. 모달을 닫거나(취소) 다시 열면 마지막으로 저장된 상태로 되돌아간다 — 입력 후 반드시 "저장"까지 눌러야 한다.</span><span class="vi">Chỉ bấm badge trạng thái gửi quà hoặc nhập ghi chú thì chưa được lưu. Nếu đóng modal (Hủy) hoặc mở lại thì trở về trạng thái đã lưu gần nhất — sau khi nhập phải bấm "Lưu" mới xong.</span></span></div>
